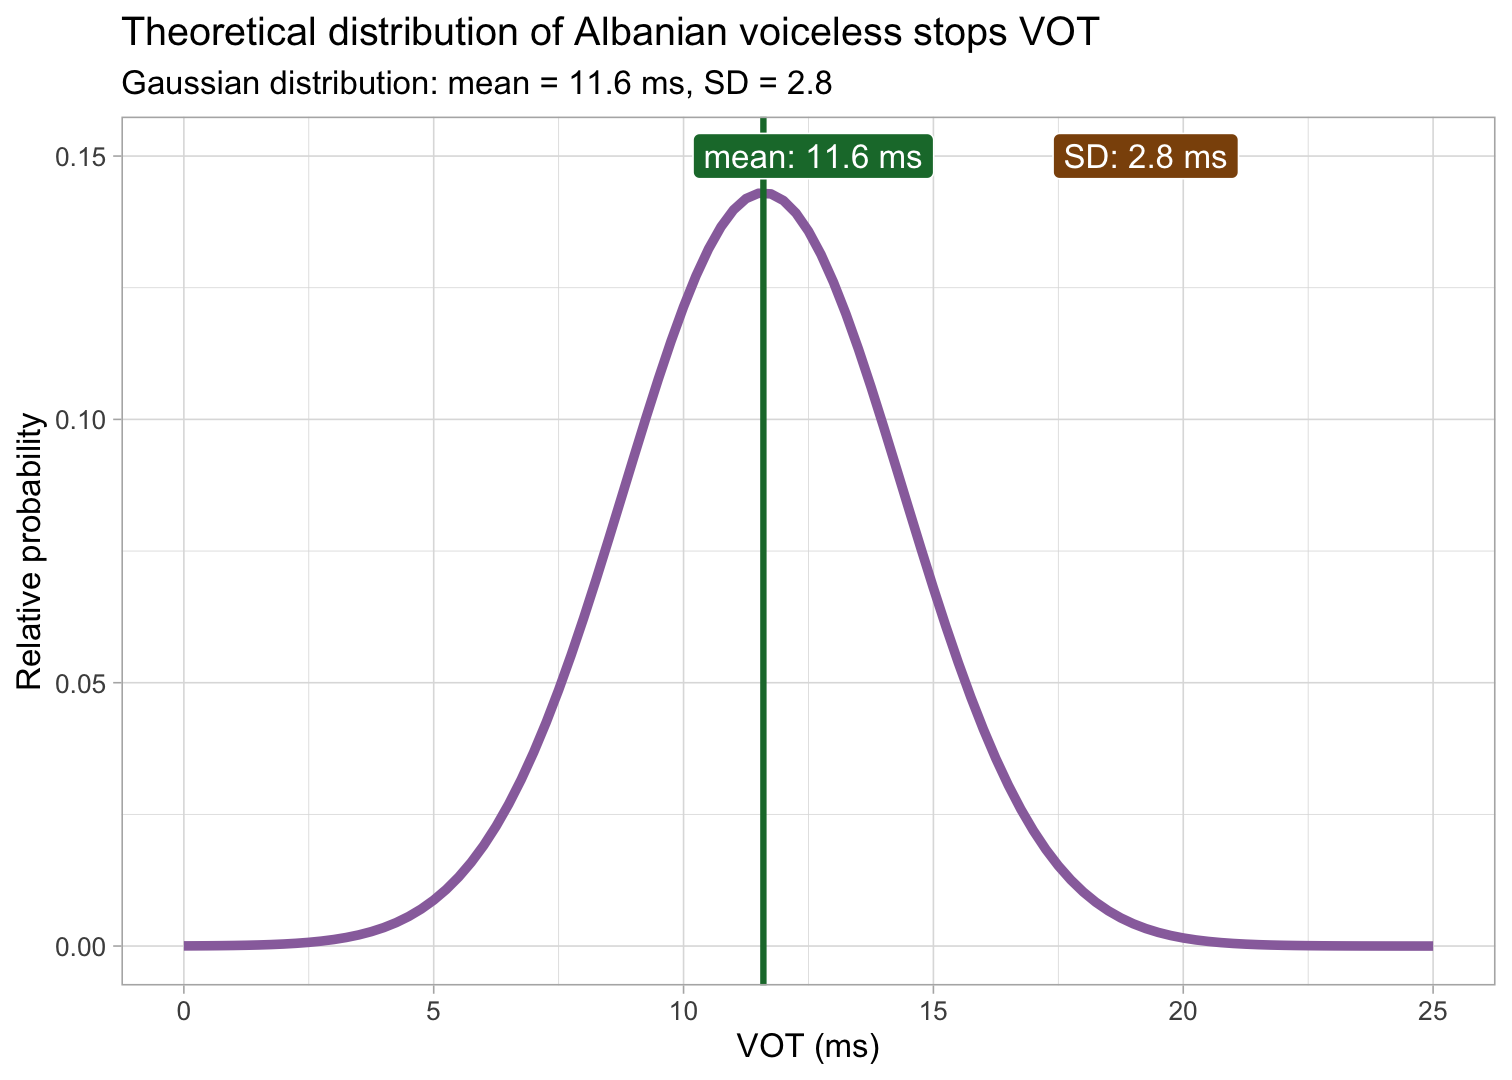
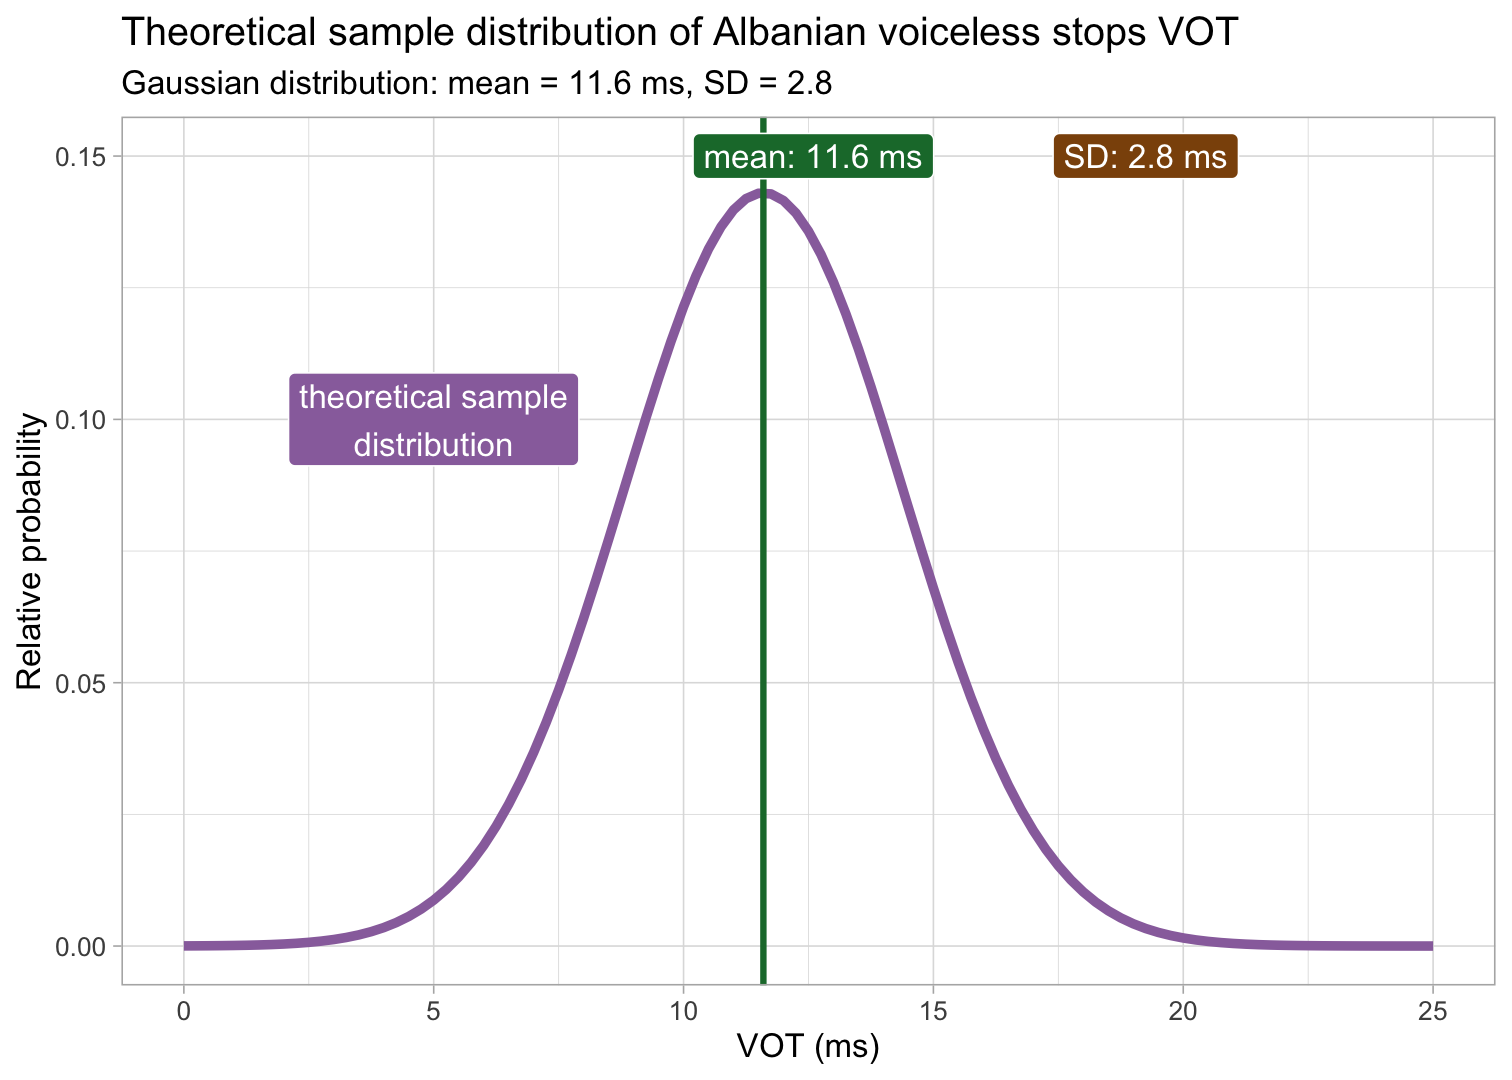
♻ - edit w4 slides

Changed region(s): [[0.2176, 0.0, 0.8082, 0.0611], [0.1865, 0.3361, 0.4041, 0.4278]]

diff --git a/slides/w04/index.html b/slides/w04/index.html
@@ -41,7 +41,7 @@ class: center, middle, inverse, title-slide
 
 
 
-# Random variables
+## Random variables
 
 .bg-washed-blue.b--dark-blue.ba.bw2.br3.shadow-5.ph4.mt2[
 **We have a question about the world, so we sample from a population.**
@@ -72,7 +72,7 @@ In probability theory, **A random variable `\(Y\)` is a variable whose value is 
 
 layout: true
 
-# Probabilities
+## Probabilities
 
 ---
 
@@ -113,7 +113,7 @@ layout: true
 layout: false
 layout: true
 
-# Probability distributions
+## Probability distributions
 
 ---
 
@@ -252,7 +252,7 @@ background-image: url(https://media.giphy.com/media/443pAv9m6Ti8KiCoAi/giphy.gif
 
 layout: true
 
-# Albanian VOT
+## Albanian VOT
 
 ---
 
@@ -303,8 +303,120 @@ Let's assume VOT values are **distributed according to a Gaussian distribution**
 
 &lt;img src="index_files/figure-html/alb-vot-dist-2-1.png" width="60%" style="display: block; margin: auto;" /&gt;
 
+--
+
+We want to make inferences about the population based on the sample.
+
 ---
 
+.f3[
+`$$vot = Gaussian(\mu, \sigma)$$`
+]
+
+**Parameters**: mean `\(\mu\)` and SD `\(\sigma\)`.
+
+--
+
+.f3[
+`$$\mu = ...$$`
+`$$\sigma = ...$$`
+]
+
+---
+
+.f3[
+`$$vot = Gaussian(\mu, \sigma)$$`
+]
+
+**Parameters**: mean `\(\mu\)` and SD `\(\sigma\)`.
+
+
+
+.f3[
+`$$\mu = 12.6$$`
+`$$\sigma = 2.8$$`
+]
+
+--
+
+&lt;br&gt;
+
+**BUT**, this does not keep into consideration the **uncertainty and variability** of the sampling procedure.
+
+---
+
+.f3[
+`$$vot = Gaussian(\mu, \sigma)$$`
+]
+
+**Parameters**: mean `\(\mu\)` and SD `\(\sigma\)`.
+
+--
+
+.f3[
+`$$\mu = Gussian(\mu_1, \sigma_1)$$`
+]
+
+**Hyperparameters**: mean `\(\mu_1\)` and SD `\(\sigma_1\)`.
+
+.f3[
+`$$\sigma = ...$$`
+]
+
+--
+
+Standard deviations are always positive! So we need a half Gaussian distribution (only the positive half!).
+
+---
+
+.f3[
+`$$vot = Gaussian(\mu, \sigma)$$`
+]
+
+**Parameters**: mean `\(\mu\)` and SD `\(\sigma\)`.
+
+--
+
+.f3[
+`$$\mu = Gussian(\mu_1, \sigma_1)$$`
+]
+
+**Hyperparameters**: mean `\(\mu_1\)` and SD `\(\sigma_1\)`.
+
+.f3[
+`$$\sigma = HalfGaussian(\mu_2 = 0, \sigma_2)$$`
+]
+
+**Hyperparameters**: mean `\(\mu_2\)` = 0 and SD `\(\sigma_2\)`.
+
+---
+
+layout: false
+layout: true
+
+## Estimating probability distributions
+
+---
+
+.pull-left[
+&lt;img src="index_files/figure-html/norm-1.png" width="100%" style="display: block; margin: auto;" /&gt;
+]
+
+.pull-right[
+&lt;img src="index_files/figure-html/hnorm-1.png" width="100%" style="display: block; margin: auto;" /&gt;
+]
+
+---
+
+.bg-washed-blue.b--dark-blue.ba.bw2.br3.shadow-5.ph4.mt2[
+- `\(Gaussian(\mu, \sigma)\)`
+
+- We need to estimate:
+
+  - `\(\mu_1\)` and `\(\sigma_1\)` from the probability distribution of `\(\mu\)`.
+
+  - `\(\sigma_2\)` from the probability distribution of `\(\sigma\)`.
+]
     </textarea>
 <style data-target="print-only">@media screen {.remark-slide-container{display:block;}.remark-slide-scaler{box-shadow:none;}}</style>
 <script src="https://remarkjs.com/downloads/remark-latest.min.js"></script>
